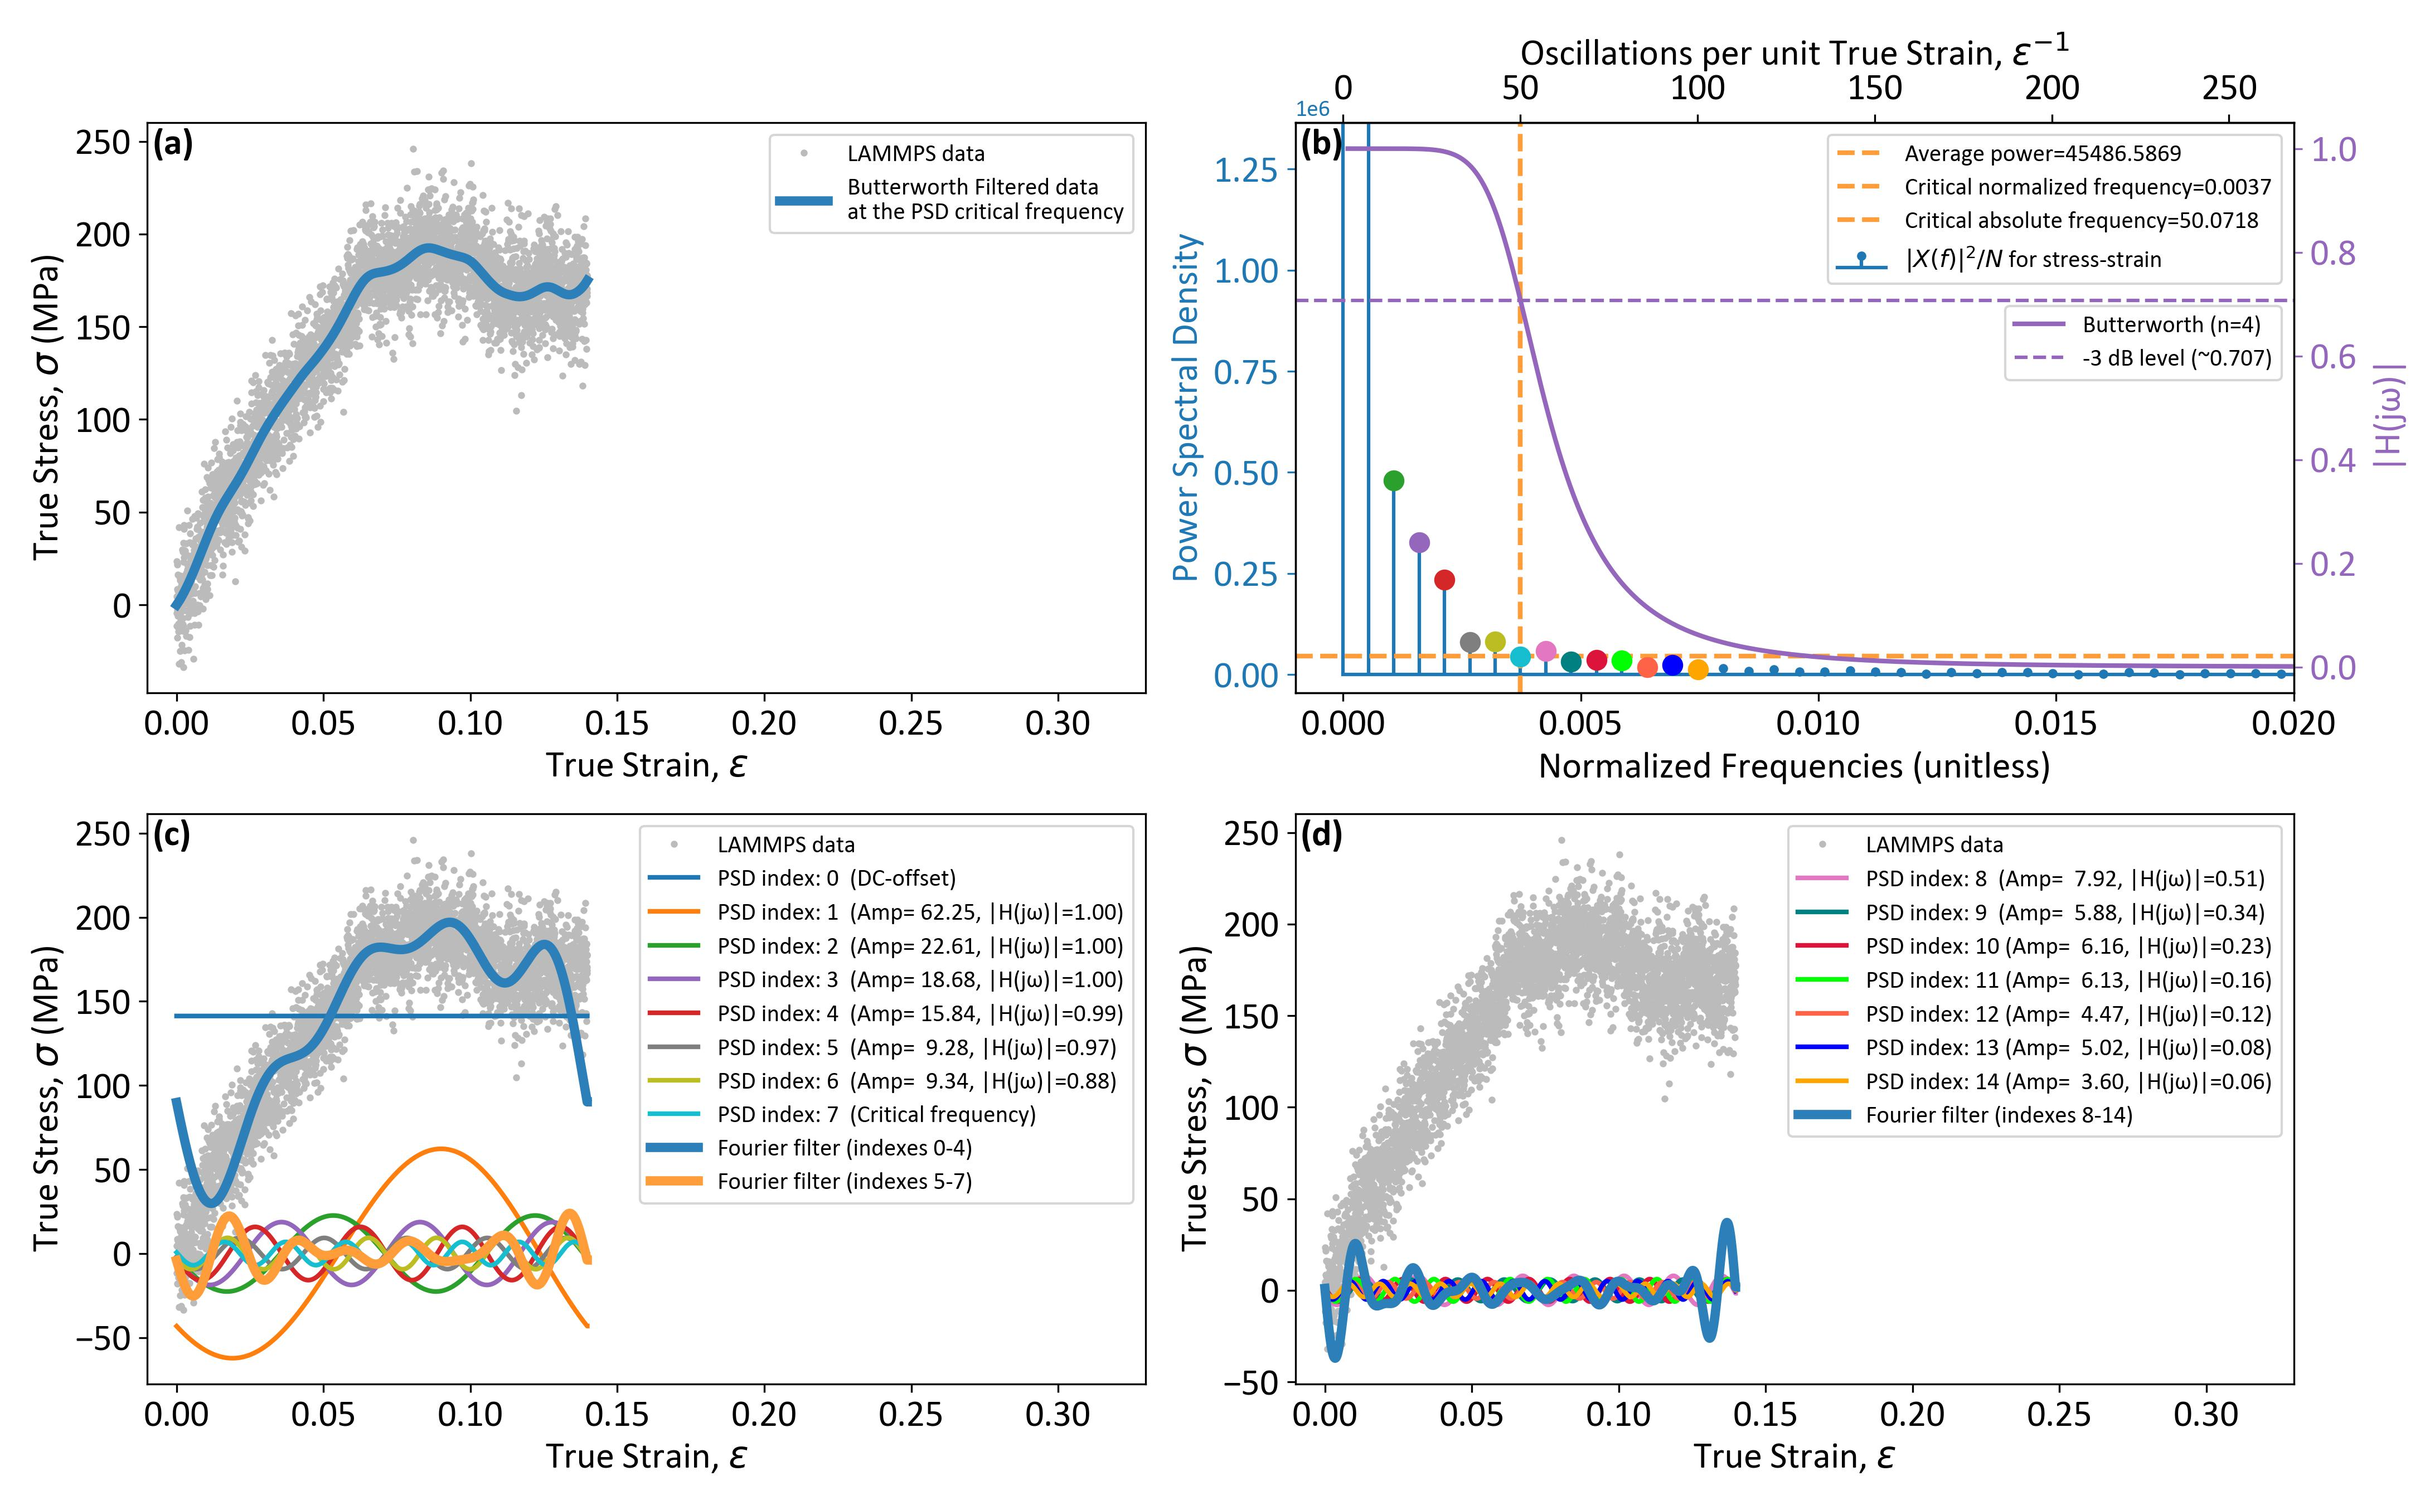
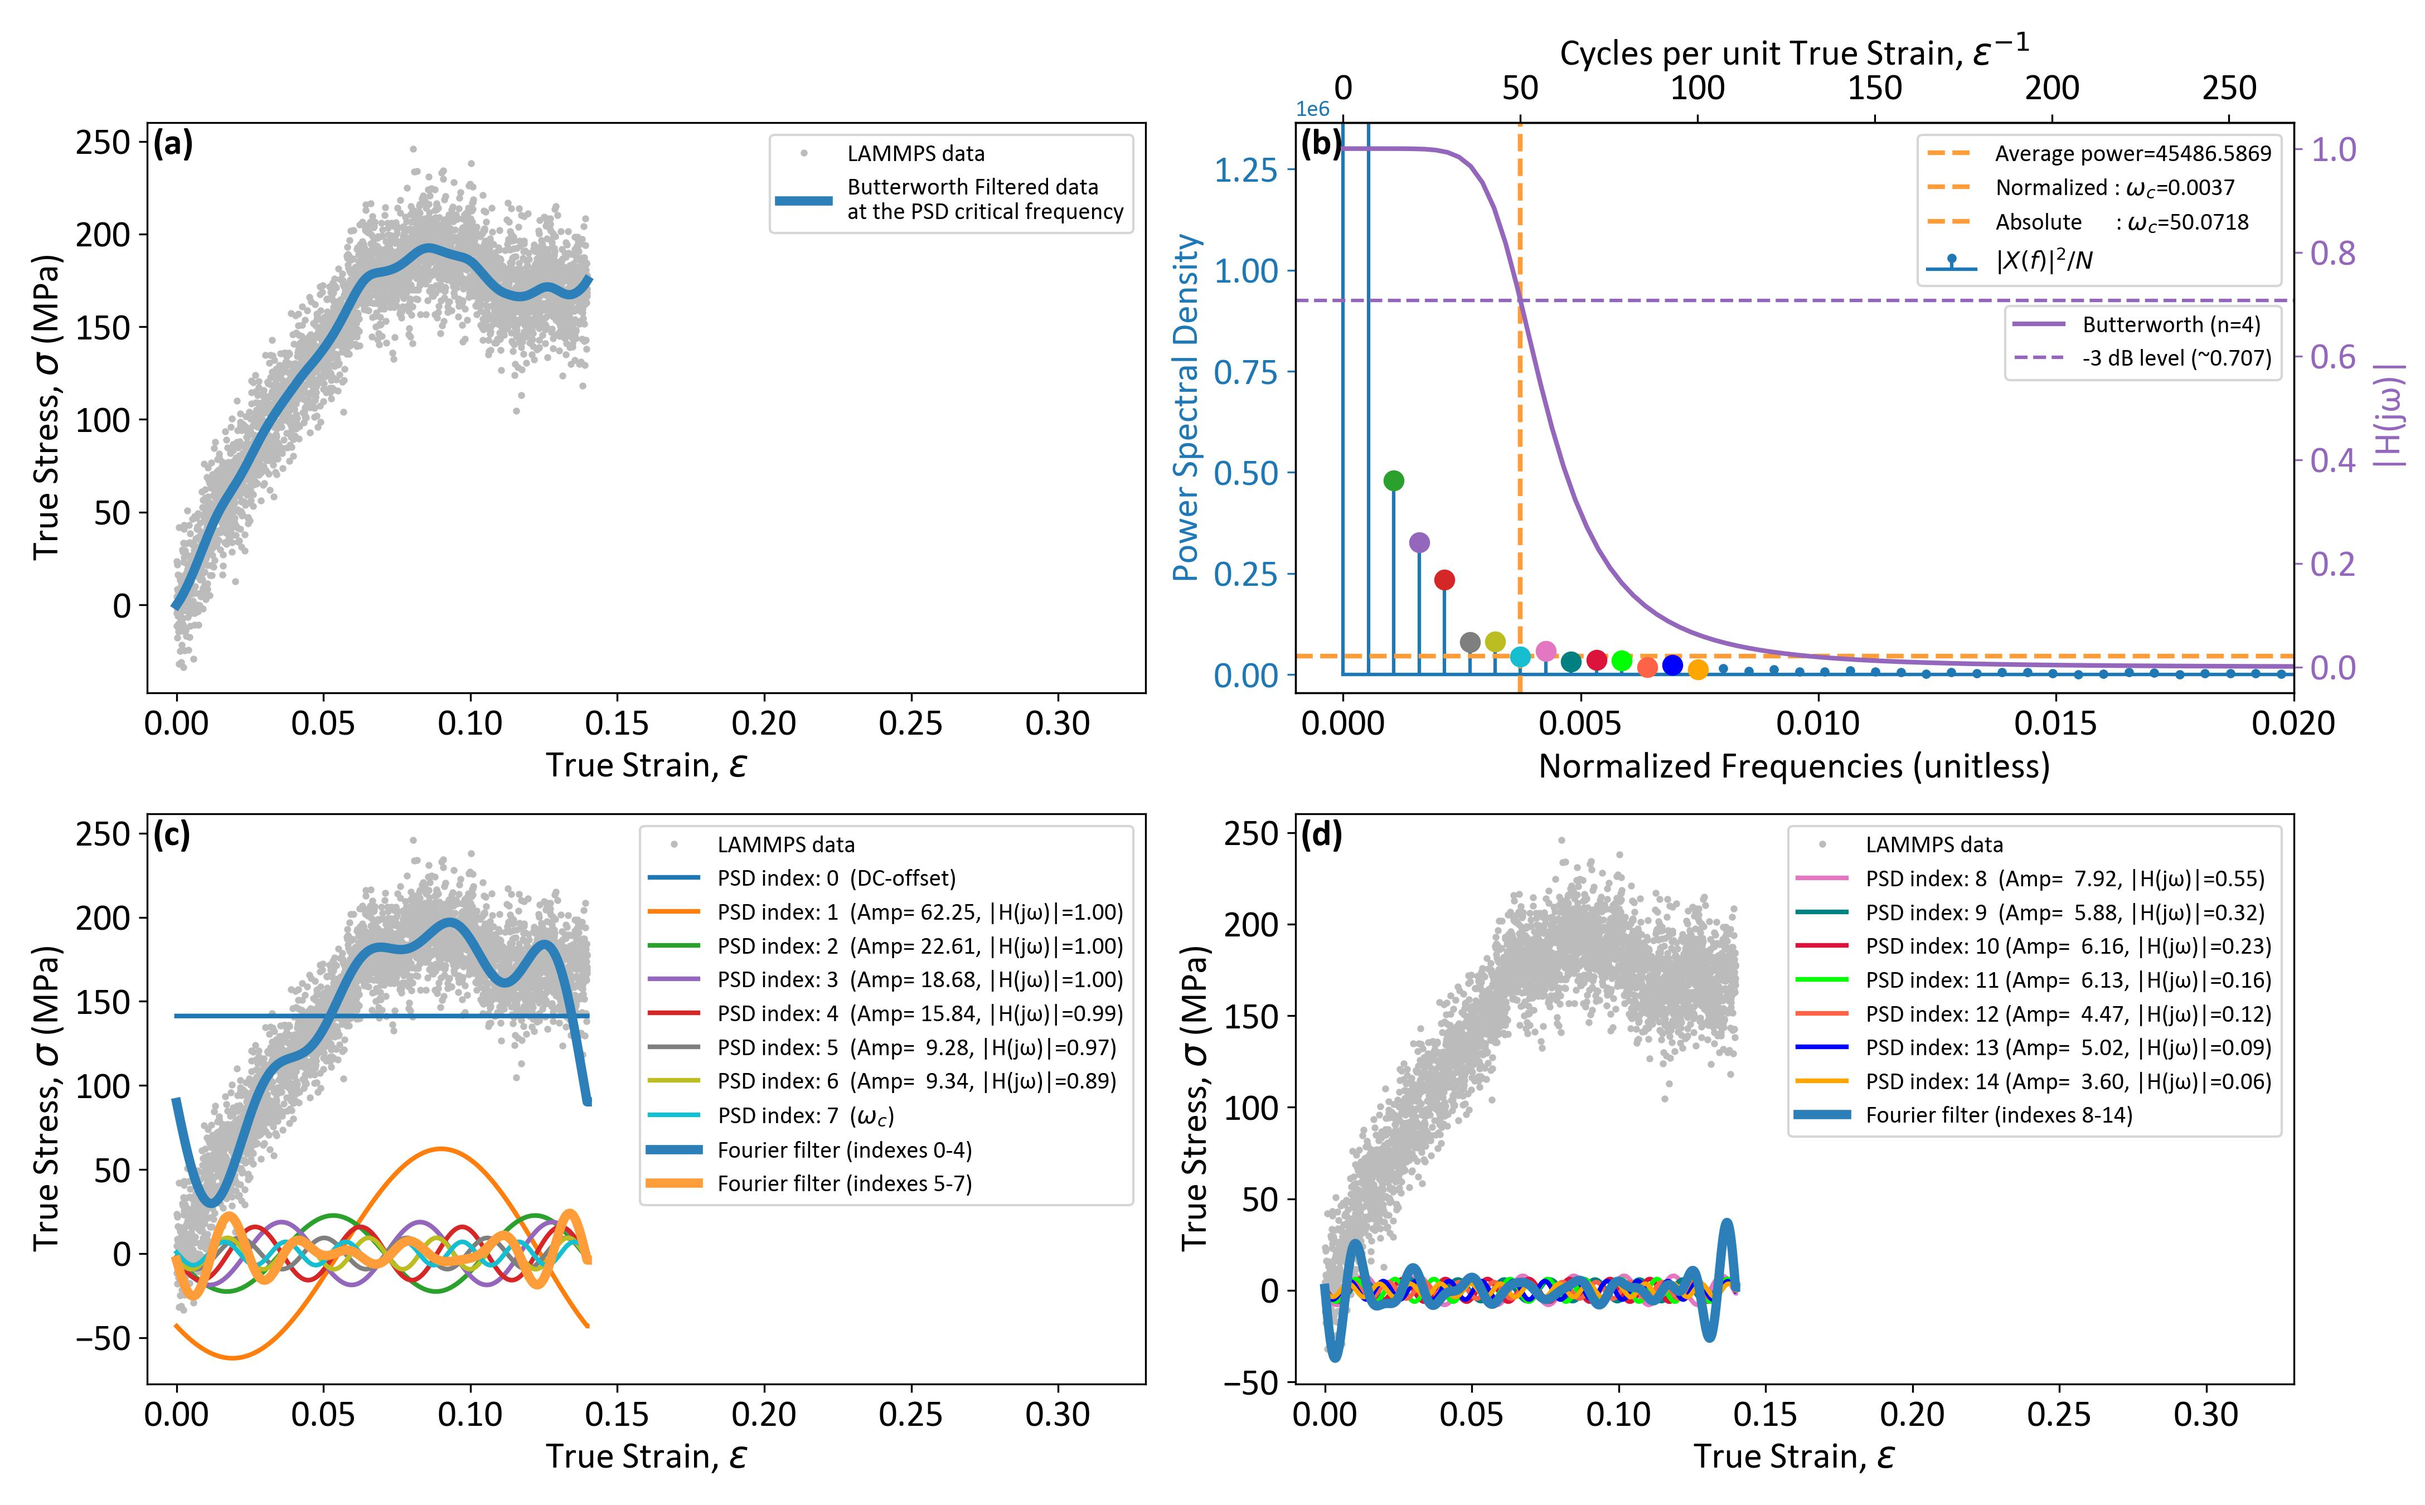
Adding Butterworth code

Changed region(s): [[0.7448, 0.0933, 0.931, 0.1867], [0.2793, 0.7156, 0.4034, 0.8089], [0.6207, 0.0311, 0.8379, 0.0622]]

diff --git a/Cutoff_effects.py b/Cutoff_effects.py
@@ -317,11 +317,11 @@ if __name__ == "__main__":
     # Set xlimits
     delta = 0.01
     xlimits = (np.min(strain)-delta, np.max(strain)+1.5*delta)
-    xlimits = (np.min(strain)-delta, np.max(strain)+1.5*delta+0.125)
+    xlimits = (np.min(strain)-delta, np.max(strain)+1.5*delta+0.07)
     
     # Set fontsize
     fs = 16
-    legend_fs_scale = 0.7
+    legend_fs_scale = 0.75
     label_rel_pos = (0.005, 0.99)
     
     # Start plotting data
@@ -329,25 +329,14 @@ if __name__ == "__main__":
 
     ax1.plot(strain, stress, '.', ms=4, color='#bbbbbbff', label='LAMMPS data')      
     if str(wn).startswith('op'):
-        ax2.stem(wns_stress, psd_stress, linefmt='tab:blue', markerfmt='.', label='$|X(f)|^2/N$ for stress-strain')
+        ax2.stem(wns_stress, psd_stress, linefmt='tab:blue', basefmt='tab:blue', markerfmt='.', label='$|X(f)|^2/N$ for stress-strain')
         ax2.axhline(mean_stress_psd, color='#ff9d3aff', ls='--', lw=2, label='Average power={:.4f}'.format(mean_stress_psd))
 
         
-        # Put other units on top X-axis
-        freq, wns, sample_rate = compute_freq(strain)
-        def wn2freq(wns):
-            return wns*(0.5*sample_rate)
-        
-        def freq2wn(freq):
-            return freq/(0.5*sample_rate)
-        
-        ax2Top = ax2.secondary_xaxis('top', functions=(wn2freq, freq2wn))   
-        ax2Top.set_xlabel('Cycles per unit True Strain, {}{}'.format(r'$\epsilon$', '$^{-1}$'), fontsize=fs)
-        ax2Top.tick_params(axis='both', which='major', labelsize=fs)
+
                 
 
         ax2.axvline(wn_stress, color='#ff9d3aff', ls='--', lw=2, label='Normalized: {}$_c$={:.4f}'.format(r'$\omega$', wn_stress))
-        ax2.axvline(wn_stress, color='#ff9d3aff', ls='--', lw=2, label='Absolute:      {}$_c$={:.4f}'.format(r'$\omega$', wn_stress*(0.5*sample_rate)))
         ax2.legend(loc='upper right', bbox_to_anchor=(1, 1), fancybox=True, ncol=1, fontsize=legend_fs_scale*fs)
         ax2.set_xlabel('Normalized Frequency, {}'.format(r'$\omega$'), fontsize=fs)
         ax2.set_ylabel('Power Spectral Density', fontsize=fs)
@@ -356,9 +345,6 @@ if __name__ == "__main__":
         ax2.set_ylim((-1*mean_stress_psd, 30*mean_stress_psd)) # Comment/uncomment for xlimits
         ax2.text(*label_rel_pos, '(b)', transform=ax2.transAxes, fontsize=fs, fontweight='bold', va='top', ha='left')
         
-        
-        label = 'PSD index: {}'.format(wn_index)
-        ax2.plot(wns_stress[wn_index], psd_stress[wn_index], 'o', ms=8, color='#2c7fb8ff')
             
 
         indexes = [int(wn_index)]
@@ -374,9 +360,9 @@ if __name__ == "__main__":
             if i <= 0: continue
             filtered_stress_i, qm_stress_i = signals.butter_lowpass_filter(strain, stress, wns_stress[i], order, qm_stress)
             if i == wn_index:
-                label = 'PSD index: {} (Critical frequency)'.format(wn_index)
+                label = 'PSD index: {} ({}$_c$)'.format(wn_index, r'$\omega$')
                 color = '#2c7fb8ff'
-                ax1.plot(strain, filtered_stress, '-', lw=2, color='#2c7fb8ff', zorder=5, label=label)
+                ax1.plot(strain, filtered_stress, '-', lw=4, color='#2c7fb8ff', zorder=5, label=label)
             else:
                 color, color_index = walk_colors(color_index, colors)
                 label = 'PSD index: {}'.format(i)

diff --git a/Fourier_breakdown.py b/Fourier_breakdown.py
@@ -60,8 +60,8 @@ strain_direction = 'z'
 logfile = 'logfiles/tensile_2_AroCy_L10_pxld_97_replicate_1_FF_PCFF.log.lammps'
 strain_direction = 'y'
 
-# logfile = 'logfiles/tensile_1_PEEK_pxld_90_replicate_3_FF_PCFF.log.lammps'
-# strain_direction = 'x'
+logfile = 'logfiles/tensile_1_PEEK_pxld_90_replicate_3_FF_PCFF.log.lammps'
+strain_direction = 'x'
 
 
 # Set some column keywords to find sections in logfile with thermo data.
@@ -364,12 +364,12 @@ if __name__ == "__main__":
             return freq/(0.5*sample_rate)
         
         ax2Top = ax2.secondary_xaxis('top', functions=(wn2freq, freq2wn))   
-        ax2Top.set_xlabel('Oscillations per unit True Strain, {}{}'.format(r'$\epsilon$', '$^{-1}$'), fontsize=fs)
+        ax2Top.set_xlabel('Cycles per unit True Strain, {}{}'.format(r'$\epsilon$', '$^{-1}$'), fontsize=fs)
         ax2Top.tick_params(axis='both', which='major', labelsize=fs)
                 
 
-        ax2.axvline(wn_stress, color='#ff9d3aff', ls='--', lw=2, label='Critical normalized frequency={:.4f}'.format(wn_stress))
-        ax2.axvline(wn_stress, color='#ff9d3aff', ls='--', lw=2, label='Critical absolute frequency={:.4f}'.format(wn_stress*(0.5*sample_rate)))
+        ax2.axvline(wn_stress, color='#ff9d3aff', ls='--', lw=2, label='Normalized : {}$_c$={:.4f}'.format(r'$\omega$', wn_stress))
+        ax2.axvline(wn_stress, color='#ff9d3aff', ls='--', lw=2, label='Absolute      : {}$_c$={:.4f}'.format(r'$\omega$', wn_stress*(0.5*sample_rate)))
         ax2.legend(loc='upper right', bbox_to_anchor=(1, 1), fancybox=True, ncol=1, fontsize=legend_fs_scale*fs)
         ax2.set_xlabel('Normalized Frequencies (unitless)', fontsize=fs)
         ax2.set_ylabel('Power Spectral Density', fontsize=fs, color=color)
@@ -410,7 +410,7 @@ if __name__ == "__main__":
             
         label = 'PSD index: {:<2}'.format(i)
         if i == 0: label += ' (DC-offset)'
-        elif i == wn_index: label += ' (Critical frequency)'
+        elif i == wn_index: label += ' ({}$_c$)'.format(r'$\omega$')
         else: label += ' (Amp={:>6.2f}, |H(jω)|={:.2f})'.format(amplitude, sf)
         color, color_index = walk_colors(color_index, colors)
         
